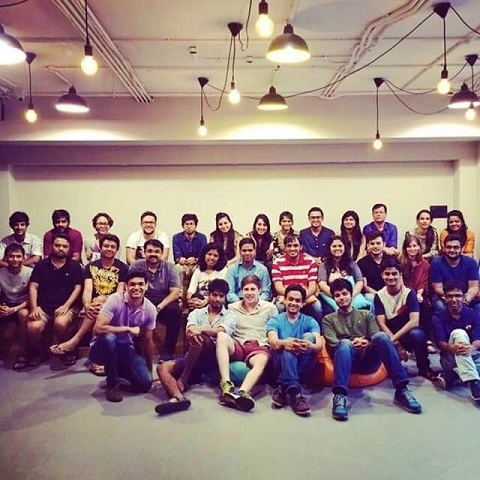
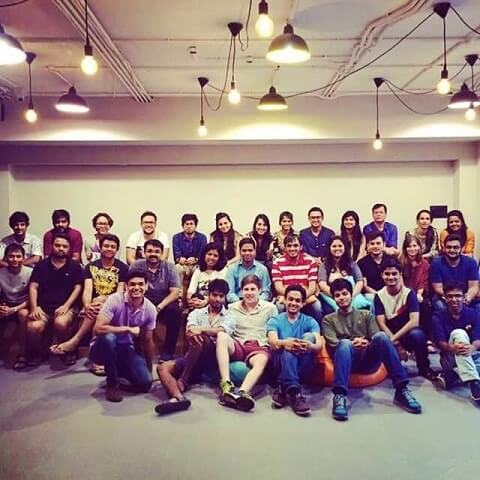
Reduced image sizes. Removed youtube video

diff --git a/_includes/about.html b/_includes/about.html
@@ -13,9 +13,6 @@
                   Each Of10 space offers a unique mix of innovative design centred around design, fashion, music and tech.
                 </p>
                 <p class="lead">For more information check our <a href="/press#faqs">FAQS</a></p>
-                 <div class="post-media">
-                    <iframe width="560" height="315" src="https://www.youtube.com/embed/le0dfcG_jVw" allowfullscreen></iframe>
-                 </div>
             </div>
         </div>
     </div>
